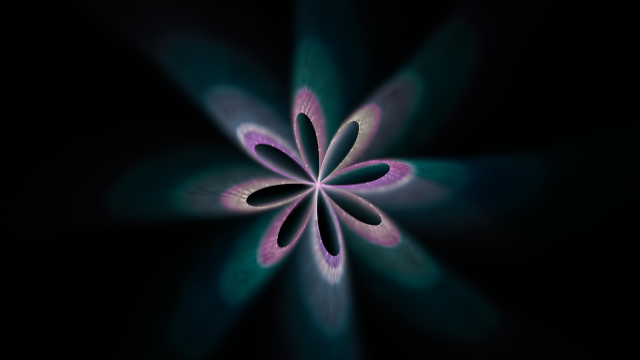
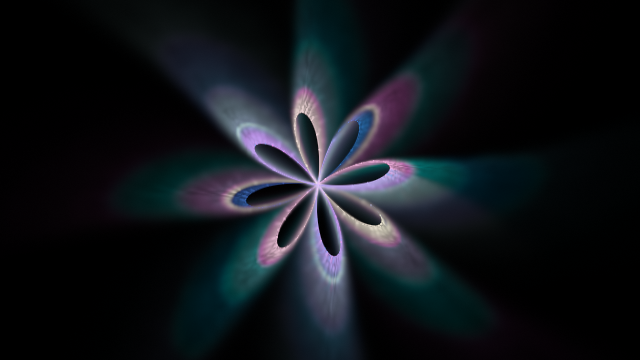
feat(preset): retune five curve presets (plan 0232 phase 4, parametric_curve)
Judged live by the owner. Cogwheel and Ink Pendulum were boring:
Cogwheel's colour now travels the path, it breathes on the bass and
draws crisp strokes, and Ink Pendulum's line swells with the bass in a
deeper ink. Ion Wake was dim and boring: its base brightness goes from
0.32 to 0.60, with bloom and a wider treble-driven colour spread. Curve
Mono was noisy: its phase wanders slower with a smaller onset nudge, its
offset is held, and d sweeps half as far. Turnabout lacked depth: a
slight outward feedback drift leaves an echo of each redraw, with colour
along the path and crisp strokes. The README's example row for the shape
params moves to Curve Mono.

Changed region(s): [[0.25, 0.1222, 0.6875, 0.9472]]

diff --git a/presets/README.md b/presets/README.md
@@ -5393,7 +5393,7 @@ Presets worth reading as **worked examples** of one control each:
 | `attractor_clifford` | **feedback trails** stretching a figure into a long exposure |
 | `fragment_supernova` | beat-driven flash/glow **eased** through a `[smoothing]` table |
 | `attractor_ink` | the terminal **ink-on-paper** remap (`ink_*` / `paper_*`) |
-| `curve_loom` | the audio-morphable curve **shape** params (`phase`, `radial_offset`) |
+| `curve_rosemono` | the audio-morphable curve **shape** params (`phase` on the onset, `radial_offset` held) |
 | `lsystem_vellum` | `draw_progress` for a **line-draw-on** |
 | `star_rosewindow` | **`rings`** — concentric motifs giving a rosette an interior |
 | `fragment_vitrail` | the **`[layer]` table** — a crisp `over` layer with a bindable `mix`, and per-beat `draw_progress` on the layer |
